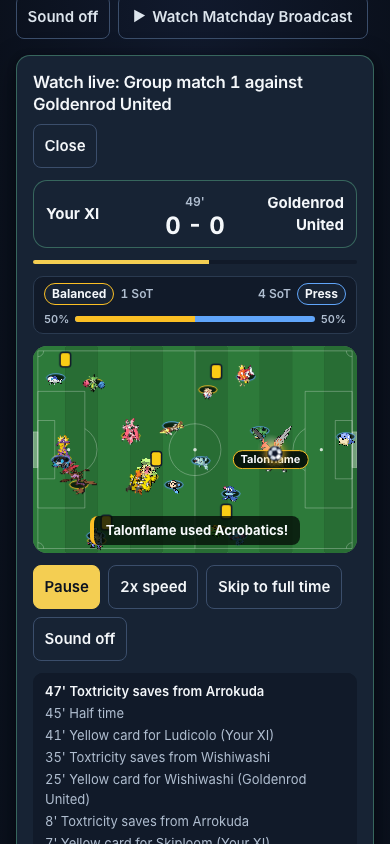
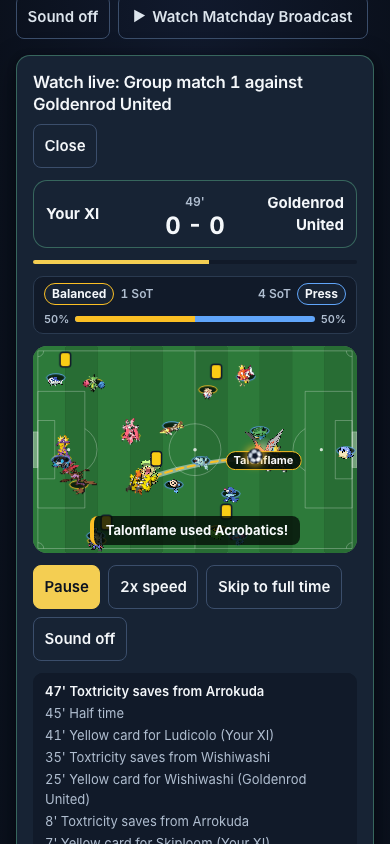
docs(matchday): continuous ball gates at the merge head
Claude-Session: https://claude.ai/code/session_01MQWZLpWyCywZCsjVuuffWk

diff --git a/STATE.md b/STATE.md
@@ -11,11 +11,11 @@ For the player, the broadcast ball no longer teleports. A tackle carries the bal
 
 RED commit: `e7b7ece` (4 of 4 guards failed), after the prefactor `a4e7e66` that adds the `stageFrame` seam with no behaviour change. GREEN: `0ea0c23`.
 
-Gates at `0ea0c23`:
+Gates at `c52a10a` (the merge of `origin/main` at `e7f2012`, PR #88):
 
-- Lint, typecheck and build exited 0. Unit tests: 1,391 passed in 156 files.
+- Lint, typecheck and build exited 0. Unit tests: 1,414 passed in 160 files (1,391 in 156 at `0ea0c23` before the merge).
 - Prettier passed on every touched file.
-- Playwright on a fresh build, port 3532 (3522 was held by another dispatch's server). `e2e/continuous-ball.spec.ts` passed 1 of 1 in its own run (2,259 frames, largest rendered move 2.70%). A second run of `mobile-targets`, `mobile-acceptance`, `watch-live`, `one-shared-timeline`, `recorded-saves`, `score-lands-with-ball`, `injury-staging`, `speed-aware-staging` and `quick-not-broadcast` had 371 passed and 54 skipped of 425.
+- Playwright on a fresh build, port 3532 (3522 was held by another dispatch's server). `continuous-ball`, `audio-polish`, `mobile-targets`, `mobile-acceptance`, `watch-live`, `one-shared-timeline`, `recorded-saves`, `score-lands-with-ball`, `injury-staging`, `speed-aware-staging`, `quick-not-broadcast` and `manager-mode`: 388 passed, 54 skipped by their own project gates. The continuous-ball scene sampled 2,251 frames with a largest rendered ball move of 2.68% of the pitch length.
 - NOT RUN: the full local Playwright suite, the review, and browser proof at 360 and 320 (no layout change).
 
 Measurements and decisions are in `docs/decisions/continuous-ball.md`. Screenshots are in `docs/reports/continuous-ball/`.

diff --git a/docs/decisions/continuous-ball.md b/docs/decisions/continuous-ball.md
@@ -191,8 +191,8 @@ Robustness sweeps, measured with throwaway scripts and not part of the guard:
 - At 2x the per-frame moves roughly double. The guard pins 1x.
 
 In the browser, at 390x844 in chromium, watching group match 1 live through its first goal and
-the kickoff after it: 2,259 rendered frames, largest move between rendered frames 2.70% of pitch
-length (2.70% scaled to one 60 Hz frame).
+the kickoff after it, at `c52a10a`: 2,251 rendered frames, largest move between rendered frames 2.68% of pitch
+length (2.68% scaled to one 60 Hz frame). Before the merge, at `0ea0c23`: 2,259 frames, 2.70%.
 
 ## Decisions
 
